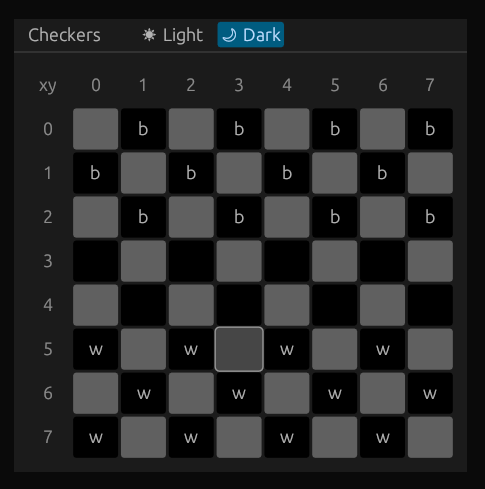
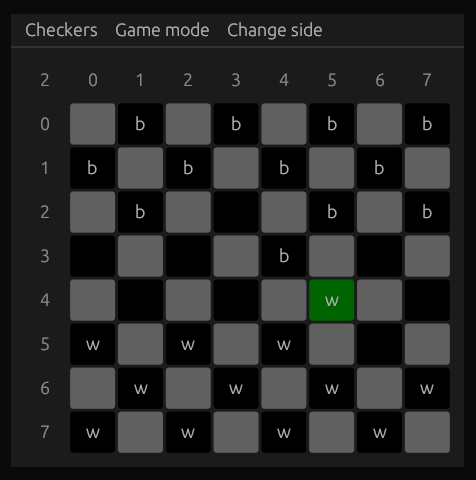
make it playable

diff --git a/src/main.rs b/src/main.rs
@@ -3,7 +3,19 @@ mod player_random;
 mod player_minmax;
 
 
+#[derive(PartialEq, Copy, Clone)]
+enum GameMode {
+    SelfPlay,
+    Random,
+    MinMax5,
+    RandomVsRandom,
+}
+
+
 struct App {
+    show_game_ended_popup: bool,
+    player_side: board::Side,
+    game_mode: GameMode,
     bd: board::Board,
     highlighted: Vec<board::Point>,
     selected_cell: Option<board::Point>,
@@ -12,11 +24,25 @@ struct App {
 
 impl App {
     fn new() -> Self {
-        return Self {
+        let mut bd = Self {
+            show_game_ended_popup: false,
+            player_side: board::Side::White,
+            game_mode: GameMode::SelfPlay,
             bd: board::Board::new(),
             highlighted: vec![],
             selected_cell: None,
-        }
+        };
+        bd.highlight_available_checkers_to_move();
+        return bd;
+    }
+
+    fn restart(&mut self) {
+        self.show_game_ended_popup = false;
+        self.bd = board::Board::new();
+        self.selected_cell = None;
+        self.enemy_try_move();
+        self.highlight_available_checkers_to_move();
+
     }
 
     fn render_coordinate(&self, layout: &egui::Layout, ui: &mut egui::Ui, text: String) {
@@ -48,18 +74,70 @@ impl App {
         });
     }
 
+    fn highlight_available_checkers_to_move(&mut self) {
+        let available_moves = self.bd.all_available_moves();
+        self.highlighted = vec![];
+        for i in 0..available_moves.len() {
+            self.highlighted.push(available_moves[i].from)
+        }
+    }
+
+    fn enemy_try_move(&mut self) {
+        match self.game_mode {
+            GameMode::SelfPlay => (),
+            GameMode::RandomVsRandom => {
+                while !self.bd.is_ended() {
+                    let chouse_result = player_random::chouse_move(&self.bd);
+                    match chouse_result {
+                        Some(mv) => self.bd.do_move(mv).unwrap(),
+                        None => (),
+                    };
+                }
+            },
+            gm => {
+                let chouse_func = match gm {
+                    GameMode::Random => player_random::chouse_move,
+                    GameMode::MinMax5 => player_minmax::chouse_move5,
+                    _ => unreachable!(),
+                };
+
+                while self.player_side != self.bd.who_turn() && !self.bd.is_ended() {
+                    let chouse_result = chouse_func(&self.bd);
+                    match chouse_result {
+                        Some(mv) => self.bd.do_move(mv).unwrap(),
+                        None => (),
+                    };
+                }
+            },
+        }
+    }
+
+    fn show_game_ended_popup_if_game_ended(&mut self) {
+        if self.bd.is_ended() {
+            self.show_game_ended_popup = true;
+        }
+    }
+
+    fn try_move(&mut self, x: usize, y: usize) {
+        for i in 0..self.highlighted.len() {
+            if self.highlighted[i] == board::Point::new(x, y) {
+                match self.selected_cell {
+                    Some(cell) => {
+                        self.bd.do_move(board::Move::new(cell.x, cell.y, x, y)).unwrap();
+                        self.enemy_try_move();
+                        self.highlight_available_checkers_to_move();
+                    },
+                    None => (),
+                }
+                return
+            }
+        }
+    }
+
     fn on_click(&mut self, x: usize, y: usize) {
         match self.bd.get_cell(x, y) {
             board::Cell::Empty => {
-                for i in 0..self.highlighted.len() {
-                    if self.highlighted[i] == board::Point::new(x, y) {
-                        match self.selected_cell {
-                            Some(cell) => self.bd.do_move(board::Move::new(cell.x, cell.y, x, y)).unwrap(),
-                            None => (),
-                        }
-                        return
-                    }
-                }
+                self.try_move(x, y);
             },
             _ => {
                 self.selected_cell = Some(board::Point::new(x, y));
@@ -80,23 +158,48 @@ impl App {
         .max_col_width(ui.available_width() / 9. -2.)
         .min_row_height(ui.available_height() / 9. -2.)
         .show(ui, |ui| {
-            self.render_coordinate(&layout, ui, "xy".to_string());
-            for x in 0..8 {
+            self.render_coordinate(&layout, ui, format!("{}", self.bd.move_amount));
+
+            let (start, end, step) = match self.player_side {
+                board::Side::White => (0, 8, 1),
+                board::Side::Black => (7, -1, -1),
+            };
+            let mut y = start;
+            let mut x = start;
+
+            while x != end {
                 self.render_coordinate(&layout, ui, format!("{}", x));
+                x += step;
             }
             ui.end_row();
 
-            for y in 0..8 {
-                for x in 0..8 {
-                    if x == 0 {
+            while y != end {
+                x = start;
+                while x != end {
+                    if x == start {
                         self.render_coordinate(&layout, ui, format!("{}", y));
                     }
 
-                    self.render_cell(ui, x, y);
+                    self.render_cell(ui, x as usize, y as usize);
+                    x += step;
                 }
                 ui.end_row();
+                y += step;
             }
         });
+    }
+
+    fn change_game_mode(&mut self, new_mode: GameMode) {
+        self.game_mode = new_mode;
+        self.restart();
+    }
+
+    fn who_win(&self) -> String {
+        match self.bd.who_win() {
+            Some(board::Side::Black) => "Black".to_string(),
+            Some(board::Side::White) => "White".to_string(),
+            None => "No one".to_string(),
+        }
     }
 }
 
@@ -114,18 +217,54 @@ impl eframe::App for App {
                             "Source code.",
                             "https://github.com/e9000000000/checkers",
                             ));
+                    if ui.button("Restart").clicked() {
+                        self.restart();
+                    }
                     if ui.button("Quit").clicked() {
                         ctx.send_viewport_cmd(egui::ViewportCommand::Close);
                     }
                 });
+                ui.menu_button("Game mode", |ui| {
+                    if ui.radio(self.game_mode == GameMode::SelfPlay, "self play").clicked() {
+                        self.change_game_mode(GameMode::SelfPlay)
+                    }
+                    if ui.radio(self.game_mode == GameMode::Random, "random").clicked() {
+                        self.change_game_mode(GameMode::Random)
+                    }
+                    if ui.radio(self.game_mode == GameMode::MinMax5, "min max 5").clicked() {
+                        self.change_game_mode(GameMode::MinMax5)
+                    }
+                    if ui.radio(self.game_mode == GameMode::RandomVsRandom, "random vs random").clicked() {
+                        self.change_game_mode(GameMode::RandomVsRandom)
+                    }
+                });
+                ui.menu_button("Change side", |ui| {
+                    if ui.radio(self.player_side == board::Side::White, "white").clicked() {
+                        self.player_side = board::Side::White;
+                        self.restart();
+                    }
+                    if ui.radio(self.player_side == board::Side::Black, "black").clicked() {
+                        self.player_side = board::Side::Black;
+                        self.restart();
+                    }
+                });
                 ui.add_space(16.0);
-
-                egui::widgets::global_dark_light_mode_buttons(ui);
             });
         });
 
         egui::CentralPanel::default().show(ctx, |ui| {
             self.render_board(ui);
+            self.show_game_ended_popup_if_game_ended();
+            if self.show_game_ended_popup {
+                egui::Window::new("End of the game").collapsible(false).anchor(egui::Align2::CENTER_CENTER, [0., 0.]).movable(true).show(ctx, |ui| {
+                    ui.with_layout(egui::Layout::top_down_justified(egui::Align::Center), |ui| {
+                        ui.label(format!("{} won", self.who_win()));
+                        if ui.button("restart").clicked() {
+                            self.restart();
+                        }
+                    });
+                });
+            }
         });
     }
 }

diff --git a/src/board.rs b/src/board.rs
@@ -58,7 +58,7 @@ pub enum State {
     Draw,
 }
 
-#[derive(PartialEq)]
+#[derive(PartialEq, Copy, Clone)]
 pub enum Side {
     White,
     Black,
@@ -68,7 +68,7 @@ pub enum Side {
 pub struct Board {
     field: [[Cell; 8]; 8],
     state: State,
-    move_amount: usize,
+    pub move_amount: usize,
     prev_turn_jump: Option<Point>,
 }
 

diff --git a/src/player_minmax.rs b/src/player_minmax.rs
@@ -91,7 +91,7 @@ fn best_move(board: &Board, depth: usize, king_multiplier: i8) -> Option<Move> {
     }
 }
 
-pub fn chouse_move(board: &Board) -> Option<Move> {
+pub fn chouse_move5(board: &Board) -> Option<Move> {
     return best_move(board, 5, 3);
 }
 

diff --git a/README.md b/README.md
@@ -7,7 +7,10 @@ cargo run
 ```
 
 # todo
-- [ ] highlight pieces, which can be sellected to move
-- [ ] player will play againts min max algorithm
-- [ ] menu buttons: restart game, select algorith to play againts
+- [X] highlight pieces, which can be sellected to move
+- [X] player will play againts min max algorithm
+- [X] add ability to change side (black/white)
+- [X] menu buttons: restart game, select algorith to play againts
+- [X] show text on win/lose/draw with restart and exit buttons
+- [ ] make checkers looks like checkers (add images instead of w/b/W/B)
 - [ ] optimize minmax algorth (now it plays with acceptable speed when depth <= 5)
